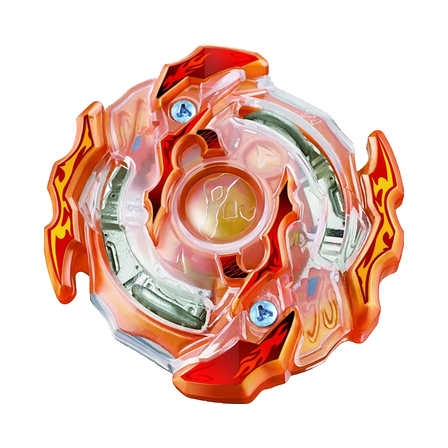
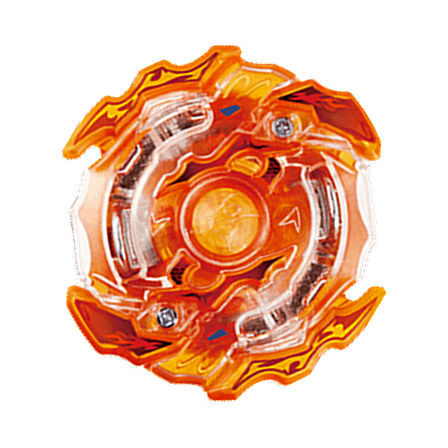
feat: deploy B-36 Rising Ragnaruk official front

diff --git a/index.html b/index.html
@@ -484,7 +484,7 @@
         "#app/services": "./src/app-services.js?v=20260714-scroll-affordance-overlay",
         "#app/markup-core": "./src/markup-core.js?v=20260714-scroll-affordance-overlay",
         "#app/anime-core": "./src/anime-core.js?v=20260720-burst-airdate-notes",
-        "#app/data-store": "./src/data-store.js?v=20260822-burst-b35-storm-spriggan-generated-front",
+        "#app/data-store": "./src/data-store.js?v=20260827-burst-b36-official-front",
         "#app/search-data-decoder": "./src/search-data-decoder.js?v=20260720-burst-airdate-notes",
         "#app/ui-elements": "./src/ui-elements.js?v=20260819-code-structure-cleanup",
         "#app/catalog-metadata": "./src/catalog-metadata.js?v=20260819-code-structure-cleanup",
@@ -494,7 +494,7 @@
         "#app/scroll-affordance": "./src/scroll-affordance.js?v=20260719-dropdown-shadow-mounted-label",
         "#app/search-core": "./src/search-core.js?v=20260717-dead-code-cleanup",
         "#app/search-engine": "./src/search-engine.js?v=20260731-mobile-highlight-fix",
-        "#app/catalog-model": "./src/catalog-model.js?v=20260822-burst-b35-storm-spriggan-generated-front",
+        "#app/catalog-model": "./src/catalog-model.js?v=20260827-burst-b36-official-front",
         "#app/collection-view": "./src/collection-view.js?v=20260731-mobile-highlight-fix",
         "#app/catalog-view": "./src/catalog-view.js?v=20260717-dead-code-cleanup",
         "#app/route-parser": "./src/route-parser.js?v=20260714-scroll-affordance-overlay",
@@ -505,7 +505,7 @@
         "#app/search-help-controller": "./src/search-help-controller.js?v=20260717-dead-code-cleanup",
         "#app/detail-view": "./src/detail-view.js?v=20260803-modal-tag-wheel-edge",
         "#app/detail-content": "./src/detail-content.js?v=20260819-code-structure-cleanup",
-        "#app/image-preview": "./src/image-preview.js?v=20260822-burst-b35-storm-spriggan-generated-front",
+        "#app/image-preview": "./src/image-preview.js?v=20260827-burst-b36-official-front",
         "#app/floating-layer": "./src/floating-layer.js?v=20260819-code-structure-cleanup",
         "#app/modal-context": "./src/modal-context.js?v=20260714-scroll-affordance-overlay",
         "#app/style-loader": "./src/style-loader.js?v=20260804-mobile-modal-scrollbar-centering",

diff --git a/src/data-store.js b/src/data-store.js
@@ -8,7 +8,7 @@ const bookItems = [];
 const gameItems = [];
 const animeInfo = { title: "", overview: [], characters: [], episodes: [] };
 const searchIndexItems = [];
-const X_ASSET_CACHE_VERSION = "20260822-burst-b35-storm-spriggan-generated-front";
+const X_ASSET_CACHE_VERSION = "20260827-burst-b36-official-front";
 
 const versionAssetUrl = source => {
   const value = String(source || "");

diff --git a/scripts/build-burst-bey-images.py b/scripts/build-burst-bey-images.py
@@ -24,7 +24,7 @@ import numpy as np
 from PIL import Image, ImageFilter
 
 
-VERSION = "20260822-burst-b35-storm-spriggan-generated-front"
+VERSION = "20260827-burst-b36-official-front"
 CANVAS_SIZE = 448
 TARGET_FOREGROUND_SIZE = 360
 ALPHA_THRESHOLD = 3

diff --git a/data/source/burst-bey-front-view-audit.md b/data/source/burst-bey-front-view-audit.md
@@ -1,7 +1,7 @@
 # 버스트 베이 수직 탑뷰 엄격 재감사
 
 - 검토일: `2026-08-19`
-- 버전: `20260822-burst-b35-storm-spriggan-generated-front`
+- 버전: `20260827-burst-b36-official-front`
 - 정면 기준: 카메라 축이 회전축 바로 위에 있는 수직 탑뷰
 - 파일명과 캡션은 증거로 사용하지 않고 448px과 112px 픽셀을 직접 검수함
 
@@ -320,7 +320,7 @@
 | B-31 | 이그드라실.R.G | `BEY-BURST-B-31-YGGDRASIL-R-G` | 수직 탑뷰 픽셀 검수 통과 |
 | B-34 | 빅토리 발키리.B.V | `BEY-BURST-B-34-VICTORY-VALKYRIE-B-V` | 수직 탑뷰 픽셀 검수 통과 |
 | B-35 | 스톰 스프리건.K.U | `BEY-BURST-B-35-STORM-SPRIGGAN-K-U` | 사용자 승인 v3 정면본·삼각나사 픽셀 검수 통과 |
-| B-36 | 라이징 라그나로크.G.R | `BEY-BURST-B-36-RISING-RAGNARUK-G-R` | 수직 탑뷰 픽셀 검수 통과 |
+| B-36 | 라이징 라그나로크.G.R | `BEY-BURST-B-36-RISING-RAGNARUK-G-R` | 타카라토미 공식 정면본 v7 회전·크기·색감 검수 통과 |
 | B-37 | 카이저 케르베우스.L.P | `BEY-BURST-B-37-KAISER-KERBEUS-L-P` | 수직 탑뷰 픽셀 검수 통과 |
 | B-38 | 빅토리 발키리.B.V | `BEY-BURST-B-38-VICTORY-VALKYRIE-B-V` | 수직 탑뷰 픽셀 검수 통과 |
 | B-42 | 다크 데스사이저.F.J | `BEY-BURST-B-42-DARK-DEATHSCYTHER-F-J` | 수직 탑뷰 픽셀 검수 통과 |
